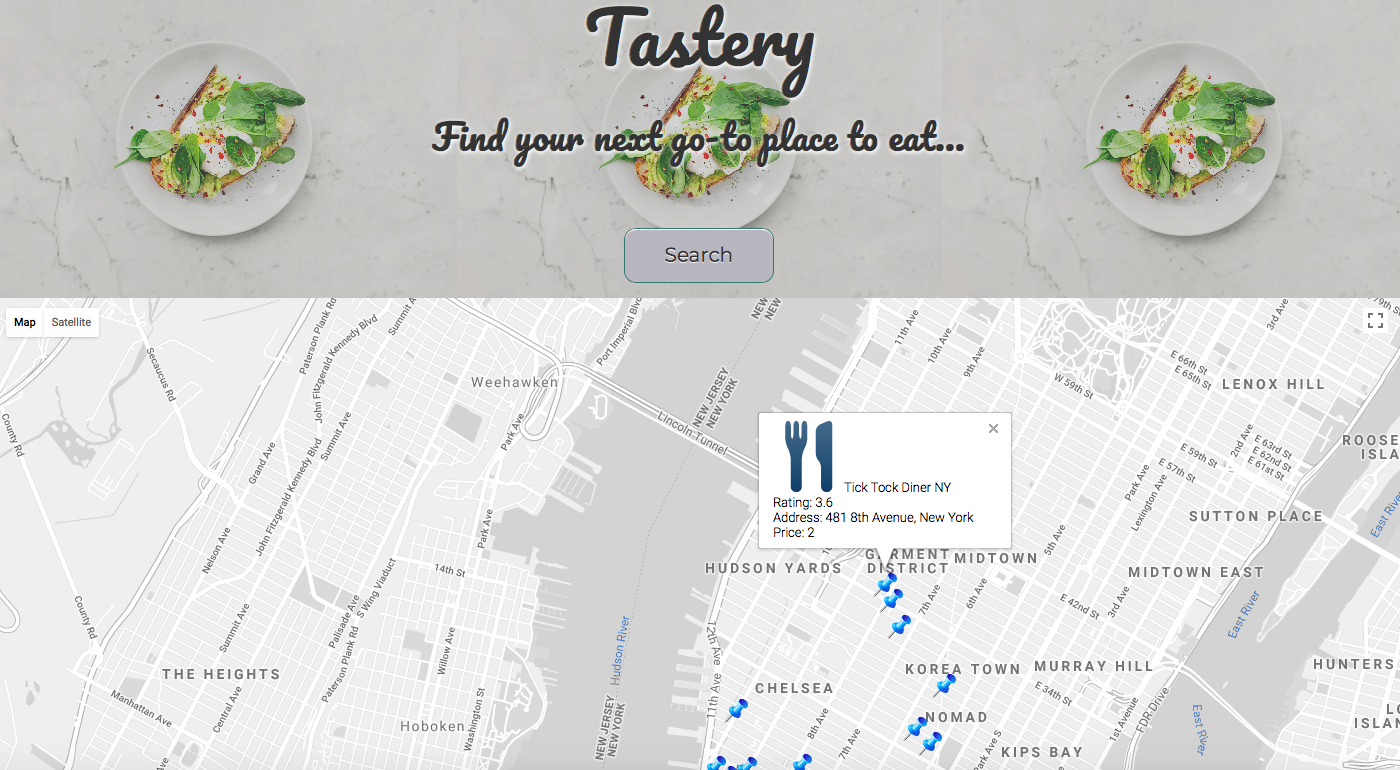
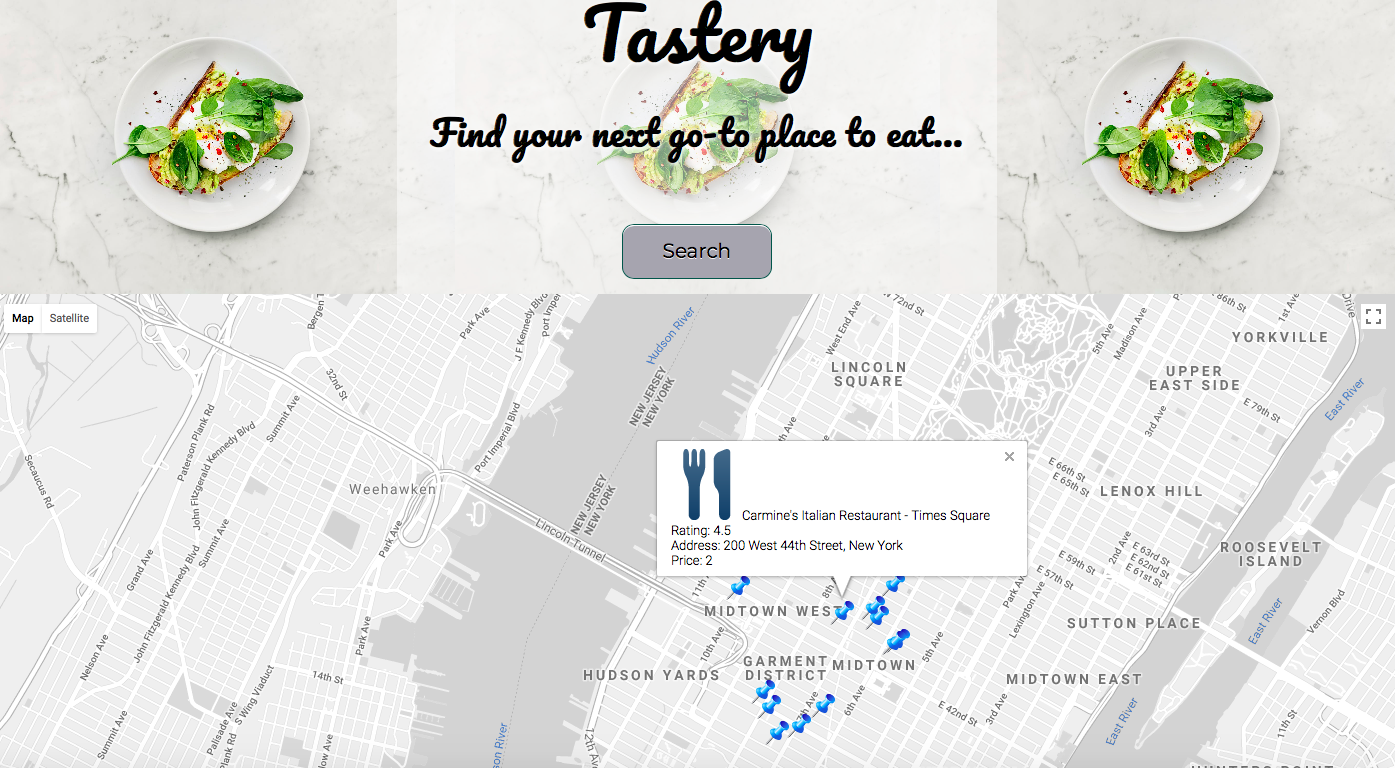
update

diff --git a/main.css b/main.css
@@ -23,7 +23,11 @@ h4 {
 }
 
 .header-background {
-    background-color: rgba(0,0,0,0.2);
+    background-color: rgba(255, 255, 255, 0.5);
+    width: 600px;
+    display: block;
+    margin-left: auto;
+    margin-right: auto;
 }
 
 
@@ -33,7 +37,6 @@ header {
     margin-bottom: 0px;
     font-family: 'Pacifico', cursive;
     font-size: 35px;
-    opacity: 0.8;
     background: url(https://images.pexels.com/photos/1095550/pexels-photo-1095550.jpeg?auto=compress&cs=tinysrgb&dpr=2&h=650&w=940) center;
     background-size: contain;
 }
@@ -72,12 +75,13 @@ header {
     text-align: center;
 }
 .actions input {
-    width: 200px;
+    width: 240px;
 }
 
 #gmap_where {
     line-height: 2;
     font-size: 13px;
+    padding-left: 5px;
 
 }
 #button1 {

diff --git a/index.html b/index.html
@@ -15,6 +15,7 @@
     <div class=header-background>
         <h1>Tastery</h1>
         <h4>Find your next go-to place to eat...</h4>
+    
     <button id="searchbtn">Search</button>
 </div>
 </header>
@@ -26,7 +27,7 @@
 
 <form class="actions">
     <label for="gmap_where">Find a place:</label>
-        <input id="gmap_where" type="text" name="gmap_where" onkeypress="handle(event)" placeholder="Enter City, State, Country"/>
+        <input id="gmap_where" type="text" name="gmap_where" onkeypress="handle(event)" placeholder="Enter City, State or Zipcode+Country"/>
 
     <input type="hidden" id="lat" name="lat"/>
     <input type="hidden" id="lng" name="lng"/>
